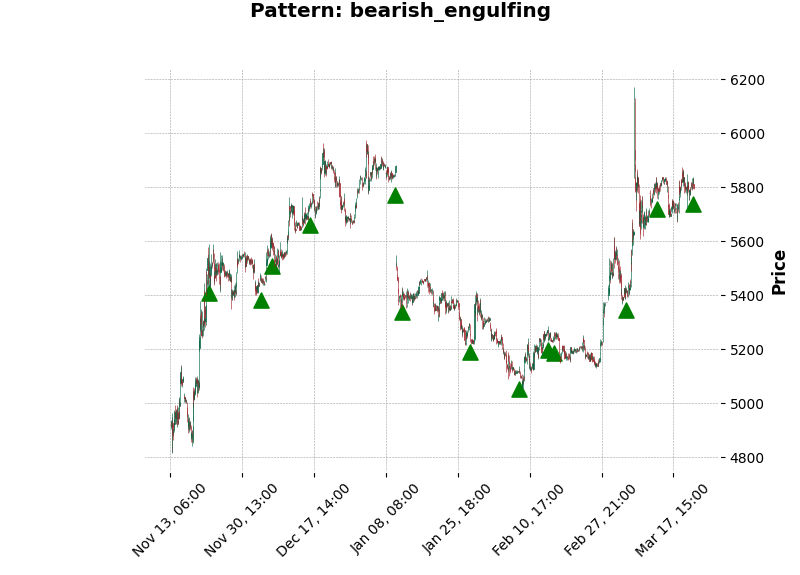
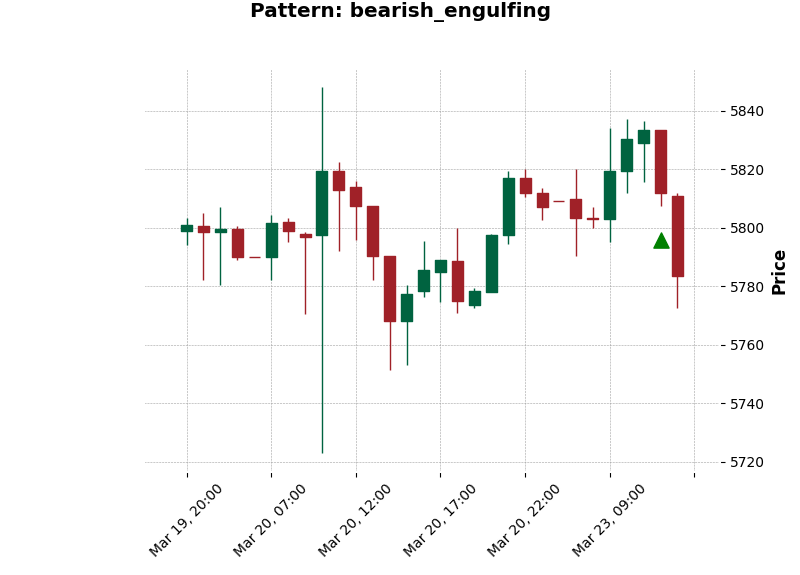
fix_view_and_bot

diff --git a/Trading/CandlePower02.py b/Trading/CandlePower02.py
@@ -115,16 +115,17 @@ class candel(ABC):
         plot_df['marker_up'] = np.nan
         plot_df['marker_down'] = np.nan
         
-        plot_df.loc[signals.values, 'marker_up'] = plot_df['low'] * 0.988
+        plot_df.loc[signals.values, 'marker_up'] = plot_df['low'] * 0.998
         #plot_df.loc[signals.values, 'marker_down'] = plot_df['high'] * 1.022
         
+        view_plot = plot_df.iloc[-30:]
         apds = []
-        if plot_df['marker_up'].notna().any():
-            apds.append(mpf.make_addplot(plot_df['marker_up'], type='scatter', 
+        if view_plot['marker_up'].notna().any():
+            apds.append(mpf.make_addplot(view_plot['marker_up'], type='scatter', 
                                          markersize=120, marker='^', color='green'))
         
         file_name = f"Trading/Graf/{self.name}_chart.png"
-        mpf.plot(plot_df, type='candle', style='charles',
+        mpf.plot(view_plot.iloc[-30:], type='candle', style='charles',
                  title=f"Pattern: {self.name}",
                  addplot=apds, savefig=file_name)
         
@@ -318,9 +319,8 @@ def get_candles(ticker_name, tf, days_needed=10, retries=3):
     return pd.DataFrame()
 
 
-async def scan(tickers, patterns, time_frame='1D'):
-    
-    notifier = TelegramNotifier("8715766790:AAFQd7LOY2qOqvxgTaMKz7rJbEuM9t5VrZc", 5595690153)
+async def scan(tickers, patterns, notifier, time_frame='1h'):
+
     print(f"🚀 Запуск сканера подтвержденных сигналов...")
     
     for ticker in tickers:
@@ -354,7 +354,32 @@ async def main():
         Evening_star()
     ]
     
-    await scan(my_tickers, my_patterns)
+    notifier = TelegramNotifier("8715766790:AAFQd7LOY2qOqvxgTaMKz7rJbEuM9t5VrZc", 5595690153)
+    
+    print("Бот-сканер запущен в режиме сервера.")
+    print("Для ручной остановки нажмите Ctrl+C")
 
+    try:
+        while True:
+            current_time = datetime.now().strftime('%H:%M:%S')
+            print(f"[{current_time}] Начинаю плановое сканирование...")
+            
+            await scan(my_tickers, my_patterns, notifier)
+
+            wait_time = 3600 
+            print(f"Сканирование окончено. Сон {wait_time//60} мин...")
+            await asyncio.sleep(wait_time)
+            
+    except asyncio.CancelledError:
+        print("Задача сканирования отменена.")
+    except KeyboardInterrupt:
+        print("Ручная остановка.")
+    finally:
+        await notifier.bot.session.close()
+        print("Сессия бота закрыта. Бот полностью остановлен.")
+        
 if __name__ == "__main__":
-    asyncio.run(main())
+    try:
+        asyncio.run(main())
+    except KeyboardInterrupt:
+        pass
